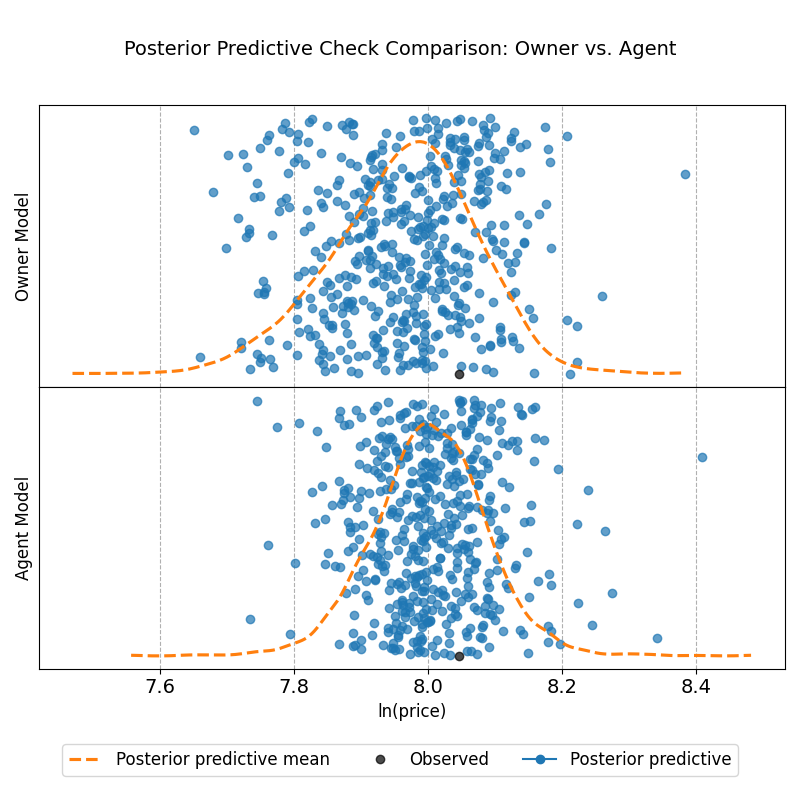
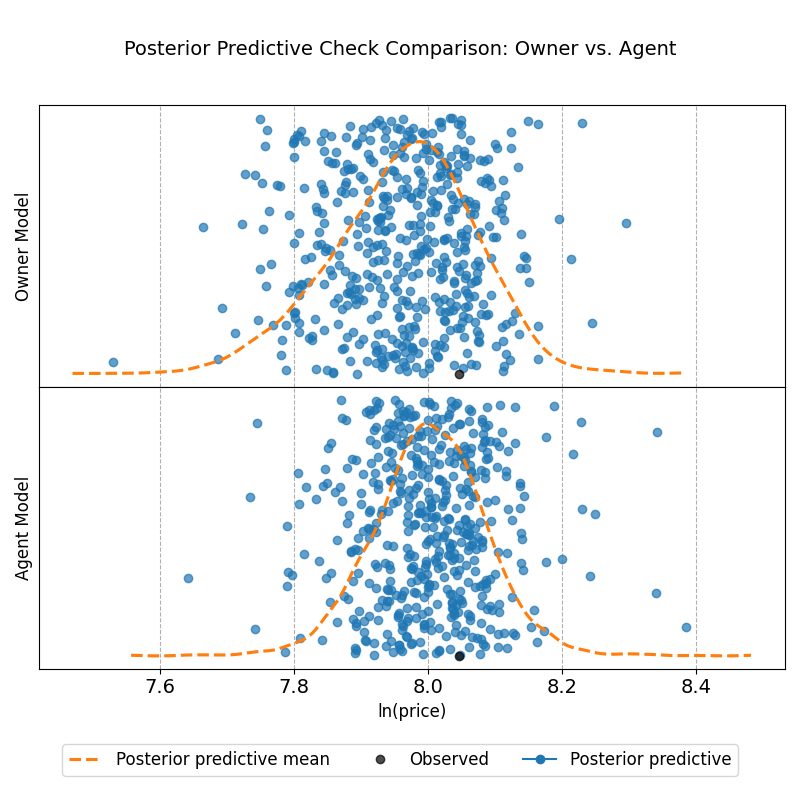
Updated src/README.md.

diff --git a/src/run_post_analysis.py b/src/run_post_analysis.py
@@ -500,7 +500,7 @@ print("- |Z| < 1.0: Strong Recovery.", flush=True)
 print("- 1.0 < |Z| < 2.0: Normal Tension.", flush=True)
 print("- |Z| > 2.0: Significant Shrinkage or Outlier.", flush=True)
 print("P-value:", flush=True)
-print("- p-value > 0.05: Truth is statistically plausible.", flush=True)
+print("- p-value > 0.05: Truth is statistically plausible (Success).", flush=True)
 print("- p-value < 0.05: Truth is an outlier relative to the posterior (likely due to heavy Shrinkage).", flush=True)
 
 ### Compare range of injected agent_premium values to the range of the corresponding posterior median values

diff --git a/src/README.md b/src/README.md
@@ -559,11 +559,14 @@ All generated outputs are saved to:
 
 Implements:
 
-> A hierarchical Bayesian generative model and performs full posterior inference via SMC.
+> A hierarchical Bayesian generative model and performs posterior inference using Sequential Monte Carlo (SMC).
 
-It outputs:
-- traces
-- posterior predictive samples
+It produces:
+
+- posterior traces (containing marginal likelihood $\log Z$ estimates)
+- posterior predictive samples (PPC)
+
+while keeping model comparison separate from inference itself.
 
 ---
 
@@ -571,32 +574,36 @@ It outputs:
 
 Implements:
 
-> All inference validation, diagnostics, and model comparison.
+> Post-inference evaluation, diagnostics, and Bayesian model comparison.
 
-It computes:
-- Bayes Factor
-- posterior calibration quality
-- parameter recovery accuracy
+It performs:
+
+- Bayes Factor computation
+- evidence consistency analysis
+- posterior predictive validation
+- parameter recovery diagnostics
+- posterior calibration analysis
+- shrinkage evaluation
 
 ---
 
 # 4. Full pipeline
 
 $$
-\text{Data}
+\text{Observed Data}
 \rightarrow
 \text{Hierarchical Bayesian Model}
 \rightarrow
-\text{SMC Inference (Posterior + PPC)}
+\text{SMC Posterior Inference}
 $$
 
 $$
 \rightarrow
-\text{Model Evidence (Log Z)}
+\text{Posterior + PPC + Log Evidence}
 \rightarrow
-\text{Bayes Factor + Diagnostics}
+\text{Bayes Factor + Diagnostics + Recovery Analysis}
 $$
 
 ---
 
-This system is designed to test whether an **agent pricing effect can be statistically identified under hierarchical uncertainty**, while keeping inference and evaluation separated.
+This framework is designed to test whether an agent-specific pricing effect can be statistically identified under hierarchical uncertainty, while maintaining a strict separation between inference, model comparison, and diagnostic evaluation.
